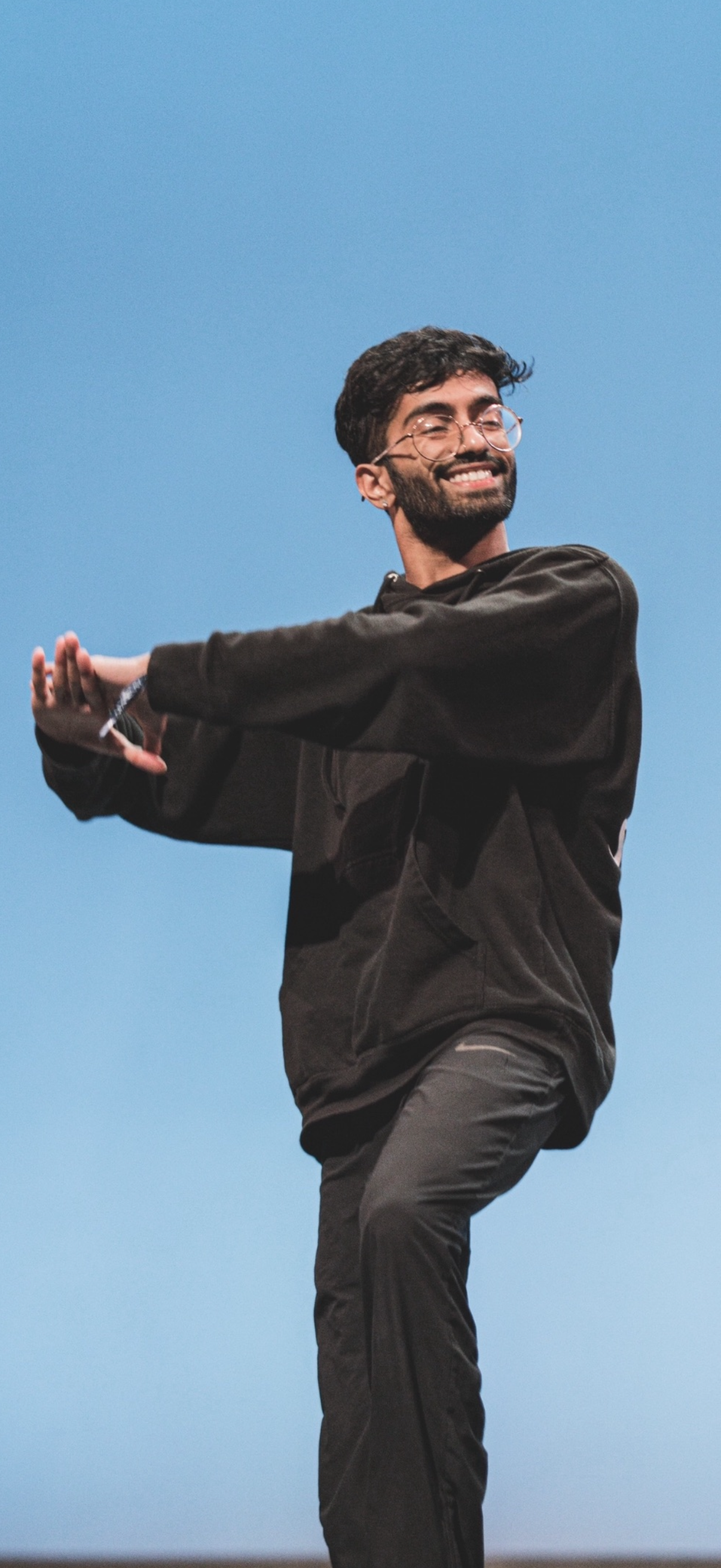
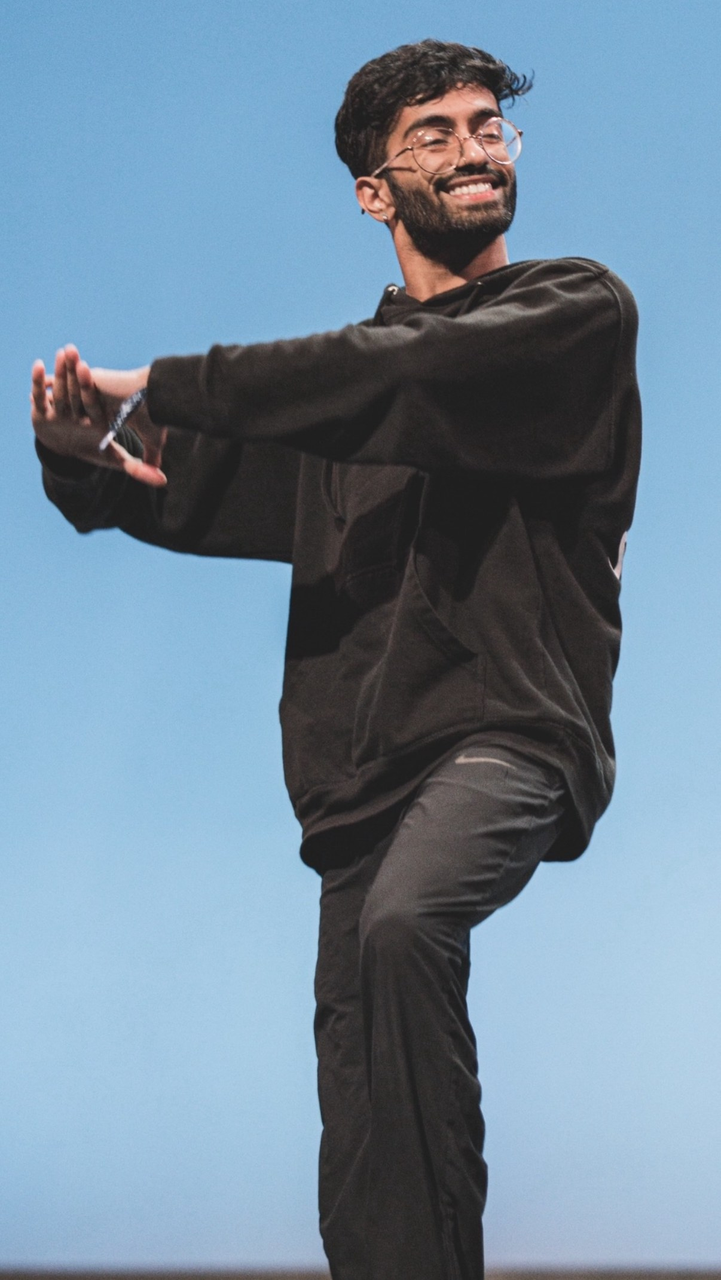
Make dance-lead-grid photos symmetrical across all three cards
- Cropped excess empty sky from the top of Abin's photo (no crop of
  the person, just removed dead space)
- Switched all three photos to a shared fixed height with
  object-fit: contain, so Abin, Yuvhan, and Jai's cards render at
  identical dimensions regardless of each photo's native aspect ratio,
  with no cropping of any person

diff --git a/service-dance.html b/service-dance.html
@@ -8,6 +8,6 @@
   <section class="dance-montage" aria-labelledby="dance-stage-title"><div class="montage-heading"><div><p class="eyebrow">Live stage performances</p><h2 id="dance-stage-title">See the team on stage.</h2></div></div><div class="dance-stage-photo"><img src="assets/dance-team-stage-wide.jpg" alt="Dance ensemble in orange performing a lift on stage" width="827" height="410" loading="lazy"></div></section>
   <section class="media-preview dance-reel-preview" aria-labelledby="dance-reel-title"><div><p class="eyebrow">Watch the work</p><h2 id="dance-reel-title">Large-scale productions and original choreography.</h2><p>See performance clips and collabs on Instagram.</p></div><a class="reel-link" href="https://www.instagram.com/reel/DS6Wc6EjFTq/" target="_blank" rel="noreferrer" aria-label="Watch on Instagram: dance reel, opens in a new tab"><img src="assets/dance-red-solo.jpg" alt="Dancer performing on a red-lit event stage" width="1365" height="2048" loading="lazy"><span>Watch on Instagram</span></a></section>
   <section class="reel-section" aria-labelledby="dance-yt-title"><div><p class="eyebrow">Dance reel</p><h2 id="dance-yt-title">Watch the full production reel.</h2></div><div class="yt-wide-wrap"><iframe src="https://www.youtube.com/embed/ze2R2DyoRz0" title="Dance production reel" frameborder="0" allow="accelerometer; autoplay; clipboard-write; encrypted-media; gyroscope; picture-in-picture" allowfullscreen loading="lazy"></iframe></div></section>
-  <section class="dance-leads" aria-labelledby="dance-leads-title"><div><p class="eyebrow">Lead choreographers</p><h2 id="dance-leads-title">Abin Thomas, Yuvhan Suresh, and Jai Ramagopal</h2><p>These three leads shape the programming. Additional dancers and instructors join based on the style, event, and location.</p></div><div class="dance-lead-grid"><article><img src="assets/abin-dance-action.jpg" alt="Abin Thomas dancing on stage" width="1206" height="2622" loading="lazy"><h3>Abin Thomas</h3><p>Performance, Hip-Hop, Workshops, Classes, South Asian styles, and Choreography.</p></article><article><img src="assets/dance-yuvhan-extra.jpg" alt="Yuvhan Suresh" width="900" height="1350" loading="lazy"><h3>Yuvhan Suresh</h3><p>Performance, Hip-Hop, Workshops, Classes, South Asian styles, and Choreography.</p></article><article><img src="assets/jai-action.jpg" alt="Jai Ramagopal performing on stage" width="617" height="900" loading="lazy"><h3>Jai Ramagopal</h3><p>Performance, Workshops, Classes, Hip-Hop, Classical, Jazz, Contemporary, South Asian styles, and Choreography.</p></article></div><p class="roster-links"><a href="https://www.instagram.com/groovewithxo" target="_blank" rel="noreferrer" aria-label="Groove with XO on Instagram, opens in a new tab">Groove with XO</a><a href="https://www.instagram.com/smilewithxo" target="_blank" rel="noreferrer" aria-label="Smile with XO on Instagram, opens in a new tab">Smile with XO</a><a href="https://www.instagram.com/jai.ramgopal" target="_blank" rel="noreferrer" aria-label="Jai Ramagopal Dance Videos on Instagram, opens in a new tab">Jai Ramagopal Dance Videos</a></p></section>
+  <section class="dance-leads" aria-labelledby="dance-leads-title"><div><p class="eyebrow">Lead choreographers</p><h2 id="dance-leads-title">Abin Thomas, Yuvhan Suresh, and Jai Ramagopal</h2><p>These three leads shape the programming. Additional dancers and instructors join based on the style, event, and location.</p></div><div class="dance-lead-grid"><article><img src="assets/abin-dance-action.jpg" alt="Abin Thomas dancing on stage" width="1206" height="2142" loading="lazy"><h3>Abin Thomas</h3><p>Performance, Hip-Hop, Workshops, Classes, South Asian styles, and Choreography.</p></article><article><img src="assets/dance-yuvhan-extra.jpg" alt="Yuvhan Suresh" width="900" height="1350" loading="lazy"><h3>Yuvhan Suresh</h3><p>Performance, Hip-Hop, Workshops, Classes, South Asian styles, and Choreography.</p></article><article><img src="assets/jai-action.jpg" alt="Jai Ramagopal performing on stage" width="617" height="900" loading="lazy"><h3>Jai Ramagopal</h3><p>Performance, Workshops, Classes, Hip-Hop, Classical, Jazz, Contemporary, South Asian styles, and Choreography.</p></article></div><p class="roster-links"><a href="https://www.instagram.com/groovewithxo" target="_blank" rel="noreferrer" aria-label="Groove with XO on Instagram, opens in a new tab">Groove with XO</a><a href="https://www.instagram.com/smilewithxo" target="_blank" rel="noreferrer" aria-label="Smile with XO on Instagram, opens in a new tab">Smile with XO</a><a href="https://www.instagram.com/jai.ramgopal" target="_blank" rel="noreferrer" aria-label="Jai Ramagopal Dance Videos on Instagram, opens in a new tab">Jai Ramagopal Dance Videos</a></p></section>
   <section class="inner-cta"><div><p class="eyebrow">Plan the format</p><h2>Share the audience, style, and schedule.</h2></div><a class="primary-button" href="c-contact.html?service=dance#event-brief">Send the event brief</a></section>
 </main><footer><p>Sesha Dasari · Texas / California · Open to worldwide travel</p><nav aria-label="Footer navigation"><a href="index.html">Home</a><a href="c-services.html">Services</a><a href="c-team.html">Team</a></nav></footer><script src="c-site.js" defer></script></body></html>

diff --git a/variants.css b/variants.css
@@ -74,7 +74,7 @@
 @media(max-width:900px){.team-page-hero>.team-hero-scarlett{object-position:center 22%}}
 
 /* Direct-message service structure */
-.reel-section,.dance-leads{padding:95px max(32px,calc((100vw - var(--max))/2));background:#faf9f6}.reel-section>div:first-child,.dance-leads>div:first-child{max-width:760px}.reel-section h2,.dance-leads h2{font-size:clamp(3.2rem,5vw,5.4rem);margin:0 0 20px}.reel-grid,.dance-lead-grid{display:grid;grid-template-columns:repeat(2,1fr);gap:18px;margin-top:40px}.reel-placeholder{min-height:360px}.dance-lead-grid{grid-template-columns:repeat(3,1fr)}.dance-lead-grid article{background:#f4efe5;border-top:8px solid #c5a46d}.dance-lead-grid .asset-placeholder{min-height:320px;box-shadow:none;border-bottom:2px solid #c5a46d}.dance-lead-grid img{width:100%;height:auto;display:block}.dance-lead-grid h3{font:400 2rem/1 "DM Serif Display",serif;margin:24px 24px 8px}.dance-lead-grid article>p{margin:0;padding:0 24px 28px}.dance-leads>.roster-links{margin-top:28px}
+.reel-section,.dance-leads{padding:95px max(32px,calc((100vw - var(--max))/2));background:#faf9f6}.reel-section>div:first-child,.dance-leads>div:first-child{max-width:760px}.reel-section h2,.dance-leads h2{font-size:clamp(3.2rem,5vw,5.4rem);margin:0 0 20px}.reel-grid,.dance-lead-grid{display:grid;grid-template-columns:repeat(2,1fr);gap:18px;margin-top:40px}.reel-placeholder{min-height:360px}.dance-lead-grid{grid-template-columns:repeat(3,1fr)}.dance-lead-grid article{background:#f4efe5;border-top:8px solid #c5a46d}.dance-lead-grid .asset-placeholder{min-height:320px;box-shadow:none;border-bottom:2px solid #c5a46d}.dance-lead-grid img{width:100%;height:600px;object-fit:contain;display:block;background:#f4efe5}.dance-lead-grid h3{font:400 2rem/1 "DM Serif Display",serif;margin:24px 24px 8px}.dance-lead-grid article>p{margin:0;padding:0 24px 28px}.dance-leads>.roster-links{margin-top:28px}
 @media(max-width:850px){.reel-grid,.dance-lead-grid{grid-template-columns:1fr}.dance-lead-grid .asset-placeholder{min-height:360px}}
 @media(max-width:600px){.reel-section,.dance-leads{padding:70px 22px}.reel-placeholder{min-height:280px}.dance-lead-grid .asset-placeholder{min-height:300px}}
 
